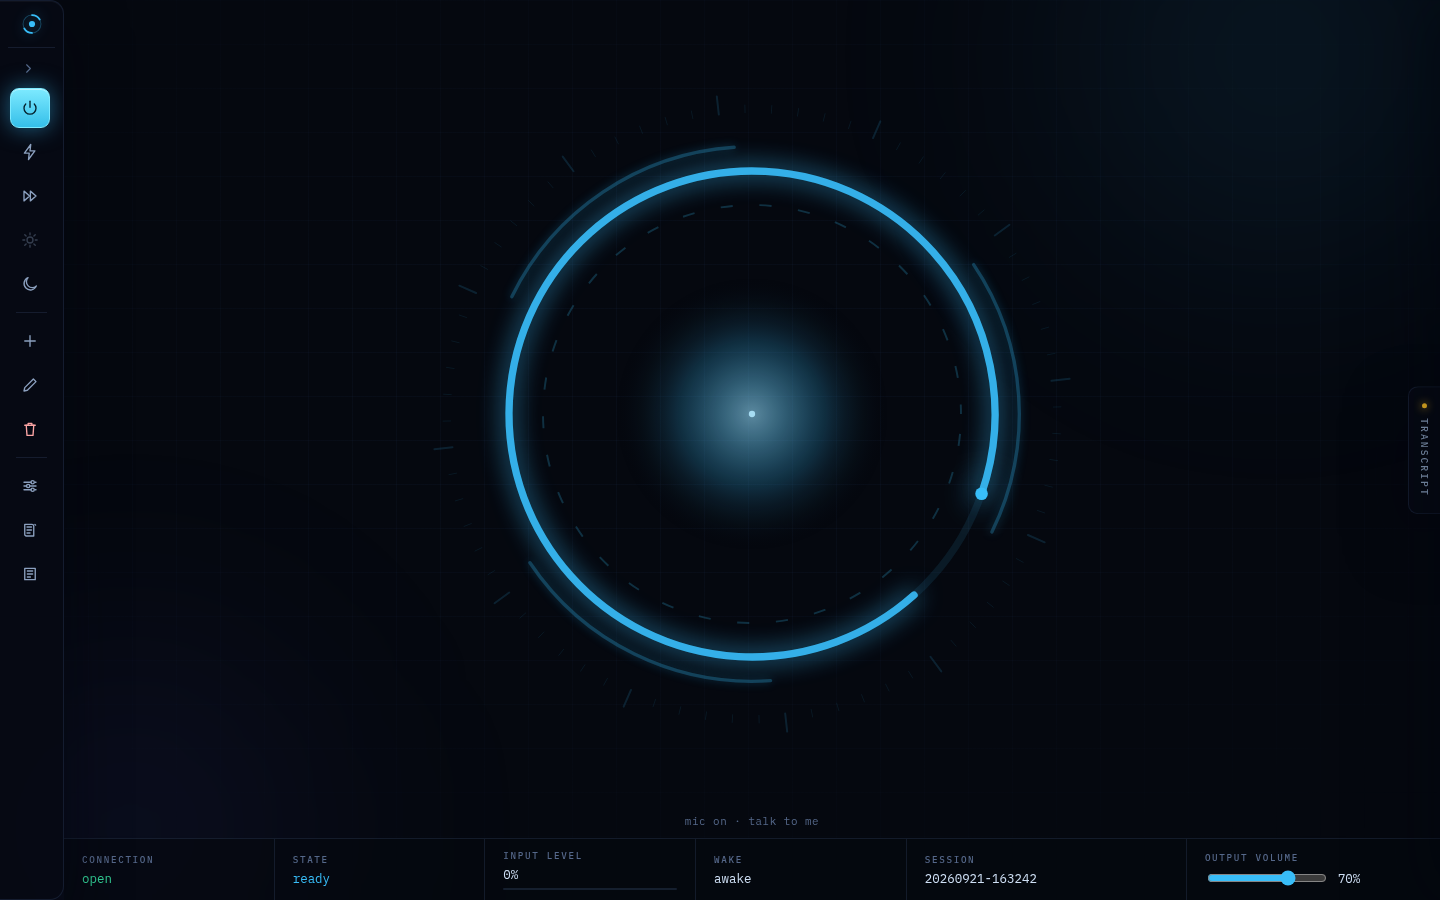
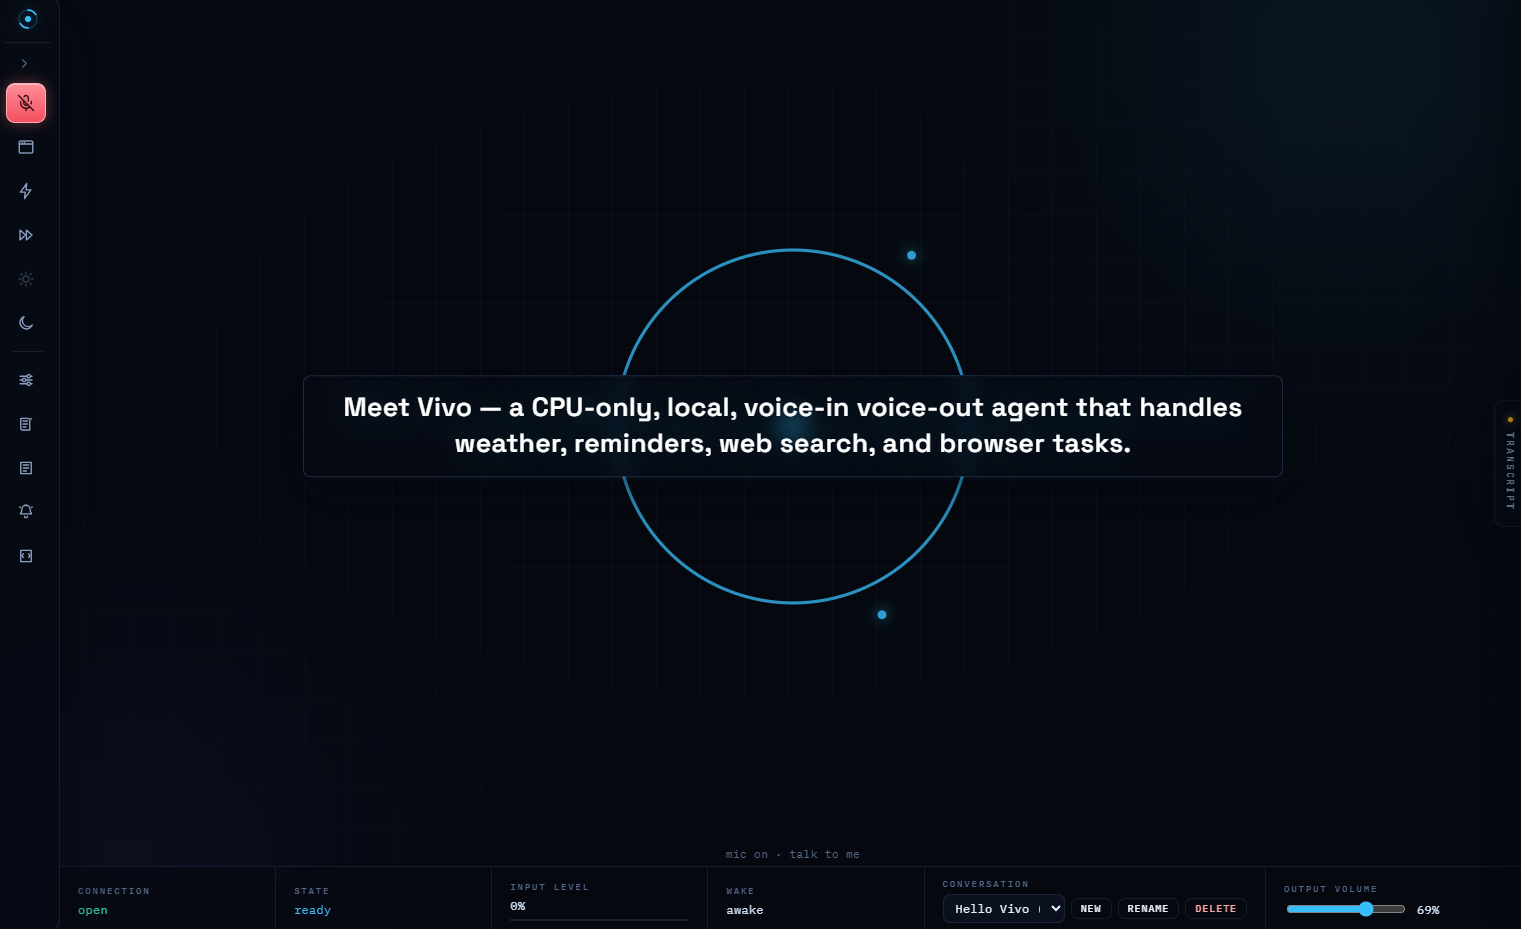
Refresh README and console screenshots

diff --git a/README.md b/README.md
@@ -2,7 +2,7 @@
 
 Vivo is a CPU-only voice assistant that runs entirely on your machine in one Docker container. It listens through the browser mic, transcribes speech, calls a local LLM, and speaks back with a cloned or default voice — no GPU, no cloud API keys, and no custom backend required.
 
-Built for local-first personal assistance: quick conversations, file and shell access inside a workspace, memory, reminders, and tools for browsing and task execution without leaving the browser.
+Built for local-first personal assistance: quick conversations, file and shell access inside a workspace, persistent memory, spoken reminders and scheduled tasks, and a live browser view for watching vivo work on the web — without leaving the browser.
 
 ![vivo console UI](banner.png)
 
@@ -12,16 +12,20 @@ A quick look at the app in action:
 
 <table>
   <tr>
-    <td><img src="images/readme/01-main-page.png" width="420" alt="Main page" /></td>
-    <td><img src="images/readme/02-response.png" width="420" alt="Assistant response" /></td>
+    <td><img src="images/readme/settings.png" width="420" alt="Settings dialog" /></td>
+    <td><img src="images/readme/skills.png" width="420" alt="Skills dialog" /></td>
   </tr>
   <tr>
-    <td><img src="images/readme/03-settings.png" width="420" alt="Settings page" /></td>
-    <td><img src="images/readme/04-skills.png" width="420" alt="Skills page" /></td>
+    <td><img src="images/readme/memory.png" width="420" alt="Memory dialog" /></td>
+    <td><img src="images/readme/tasks.png" width="420" alt="Reminders and scheduled tasks" /></td>
   </tr>
   <tr>
-    <td><img src="images/readme/05-memory.png" width="420" alt="Memory page" /></td>
-    <td><img src="images/readme/06-transcript.png" width="420" alt="Transcript open" /></td>
+    <td><img src="images/readme/browser.png" width="420" alt="Live browser view" /></td>
+    <td><img src="images/readme/logs.png" width="420" alt="System log" /></td>
+  </tr>
+  <tr>
+    <td><img src="images/readme/transcript.png" width="420" alt="Transcript panel" /></td>
+    <td><img src="images/readme/dream.png" width="420" alt="Memory dreams" /></td>
   </tr>
 </table>
 
@@ -33,9 +37,13 @@ A quick look at the app in action:
 - **Voice cloning** — upload or record a 3–30 s reference clip; vivo speaks in that voice
 - **Thinking mode** — the LLM reasons silently before answering; vivo speaks filler phrases while thinking
 - **Named sessions** — switch between conversations; each persists to disk
-- **Memory compaction** — older turns are summarised by the LLM in the background to keep context manageable
+- **Memory compaction** — older turns are summarised by the LLM in the background to keep context manageable; compactions show up as system entries in the transcript
 - **Two-tier memory** — `data/memory.md` holds curated core facts for the prompt; `data/memory.json` keeps the editable local archive
-- **21 built-in tools** — shell (sandboxed), files, memory, skills, conversations, web search, web fetch, time, weather, reminders
+- **Memory dreams** — a periodic background LLM pass reviews local memory, promotes new high-value facts, and prunes stale ones; every pass is logged and can be triggered from the UI
+- **23 built-in tools** — shell (sandboxed), files, memory, skills, conversations, web search, web fetch, time, weather, reminders and tasks, live browser view
+- **Reminders & scheduled tasks** — one-off, interval, daily, or weekly; spoken or text-only; a reminder vivo reads out, or a task vivo carries out with its tools and reports back on
+- **Live browser view** — headless Chrome (agent-browser) runs in the container; vivo opens pages, clicks, and types while you watch the streamed viewport — and can take over with your own mouse and keyboard
+- **System log** — a rolling buffer of pipeline, agent, and API events, viewable live in the UI
 - **Settings pane** — every config value is editable live from the UI; changes write `vivo.toml` automatically
 
 ## Architecture
@@ -45,13 +53,18 @@ Browser (mic + playback + UI)
    │  WebSocket (PCM 16 kHz up, PCM 48 kHz down)
    ▼
 FastAPI (uvicorn)
-    ├── VAD: Silero v6 → speech endpointing
-    ├── STT: faster-whisper small int8
-    ├── Wake: transcript-matched wake phrase
-    ├── Agent: streaming tool loop → llama.cpp v1
-    │     ├── 21 built-in tools + spoken fillers during reasoning
-    ├── Memory: named sessions, idle-time LLM compaction
-    └── TTS: LuxTTS voice cloning (48 kHz), sentence-chunked streaming
+     ├── VAD: Silero v6 → speech endpointing
+     ├── STT: faster-whisper small int8
+     ├── Wake: transcript-matched wake phrase
+     ├── Agent: streaming tool loop → llama.cpp v1
+     │     ├── 23 built-in tools + spoken fillers during reasoning
+     │     └── exec drives agent-browser (headless Chrome) for web work
+     ├── Memory: named sessions, idle-time LLM compaction, periodic dreams
+     ├── Reminders: background scheduler (once / interval / daily / weekly)
+     ├── Log: rolling event stream, broadcast to all consoles
+     └── TTS: LuxTTS voice cloning (48 kHz), sentence-chunked streaming
+
+agent-browser viewport ── /ws/browser relay ──▶ browser (live view panel)
 ```
 
 ## Prerequisites
@@ -90,7 +103,7 @@ volumes:
 docker compose up -d --build
 ```
 
-First run downloads the LuxTTS voice model (~1.2 GB) and whisper-tiny (~150 MB) into the Hugging Face cache.
+First run downloads the LuxTTS voice model (~1.2 GB) into the Hugging Face cache; the faster-whisper small model downloads on first transcription. The image also ships agent-browser and headless Chrome for the live browser view — nothing to install.
 
 **4. Open the UI**
 
@@ -101,7 +114,10 @@ Navigate to **http://localhost:8600**, click **Start**, and talk.
 | `http://localhost:8600` | Web UI |
 | `http://localhost:8600/health` | Health check (reports LLM URL and model) |
 | `ws://localhost:8600/ws` | Voice WebSocket |
+| `ws://localhost:8600/ws/browser` | Live browser viewport stream |
 | `http://localhost:8600/api/sessions` | Session management (REST) |
+| `http://localhost:8600/api/reminders` | Reminders & scheduled tasks (REST) |
+| `http://localhost:8600/api/logs` | System log (REST) |
 
 ## Configuration
 
@@ -134,6 +150,9 @@ The **voice** row is special: it lets you upload an audio file or record from th
 | `[vad]` | `threshold` | Speech detection sensitivity |
 | `[barge_in]` | `level_threshold` | Mic level to interrupt |
 | `[memory]` | `compact_after_chars` | Trigger LLM summarisation |
+| `[memory]` | `compact_after_tokens` | Token-based compaction threshold (0 = use the char threshold) |
+| `[memory]` | `dream_interval_s` | How often the memory dream pass runs |
+| `[browser]` | `max_fps` / `quality` / `max_width` / `max_height` | Live browser stream caps |
 | `[agent]` | `max_tool_rounds` | Tool calls per reply (default: 8) |
 
 ## The Agent
@@ -147,13 +166,42 @@ vivo runs a hand-rolled streaming tool loop — each utterance gets up to 8 tool
 | `read_file` / `write_file` / `list_dir` | Sandboxed to the workspace directory |
 | `read_memory` / `remember` | Read local memory or save an explicitly requested durable fact |
 | `list_skills` / `read_skill` / `save_skill` / `delete_skill` | Discover, use, create, update, or remove task-specific skills |
-| `exec` | Sandboxed shell commands (60 s default, 120 s max) |
+| `exec` | Sandboxed shell commands (60 s default, 120 s max); also how vivo drives agent-browser for web work |
 | `list_conversations` / `create_conversation` / `switch_conversation` / `rename_conversation` / `delete_conversation` | Manage saved conversations by ID |
 | `web_search` | DuckDuckGo search (≤5 results) |
 | `web_fetch` | Read a web page as markdown (Jina Reader) |
-| `set_reminder` / `list_reminders` | Schedule and query reminders |
+| `browser_view` | Open or close the live browser viewport in the UI |
+| `set_reminder` / `list_reminders` / `delete_reminder` | Create, list, and cancel reminders & scheduled tasks |
 
 The system prompt keeps the voice UX natural: summarise results clearly, never read raw output or code aloud, and announce what you are doing before a slow tool call.
+
+## Reminders & Scheduled Tasks
+
+Two kinds of item, each with a delivery mode:
+
+- **Reminder** — vivo tells you something at the set time.
+- **Task** — vivo carries the work out with its tools at the set time and reports back (e.g. a daily news briefing or a `/tmp` cleanup).
+
+Delivery is either **spoken** (said aloud and shown as text) or **text-only**. Schedules:
+
+- **once** — a single time ("at 10:00 tomorrow" or "in 20 minutes")
+- **interval** — free-running, every N minutes (1–1440)
+- **daily** — at HH:MM in your time zone
+- **weekly** — at HH:MM on the chosen weekdays
+
+A background scheduler in the container fires items whether or not a console is open. Results are delivered to the conversation the item is attached to (or the active one) and broadcast live to open tabs. Manage them by voice ("remind me…", "what's on my list?") or in the **Reminders** dialog; REST at `/api/reminders`.
+
+## Live Browser View
+
+The container ships with **agent-browser** (a headless Chrome driver). When vivo needs the web it drives it from the `exec` tool — open a page, snapshot the interactive elements, act by reference — and calls `browser_view` so you can watch.
+
+The viewport streams to a panel in the UI over a dedicated WebSocket (`/ws/browser`) as compressed frames, capped by the `[browser]` settings. Your mouse and keyboard on the panel go straight back to the page, so you can take over mid-task. Closing the panel — or the browsing task — shuts the browser down.
+
+## System Log & Memory Dreams
+
+**System log** — every pipeline, agent, and API event flows through the `vivo.*` loggers into a rolling buffer persisted to `data/log.json`. Consoles list it under **Logs** and receive new entries live; REST at `GET/DELETE /api/logs`.
+
+**Memory dreams** — on a timer (`dream_interval_s`, default hourly) a background LLM pass reviews local memory: it promotes new high-value facts into the core set and prunes stale archive facts (core facts are never pruned). Each pass — summary, additions, prunes — is recorded in `data/dreams.json` and viewable in the **Dreams** dialog, which can also run a pass now (`POST /api/dream`).
 
 ## Wake Word
 
@@ -184,20 +232,27 @@ To access from another device:
 
 ```
 app/
-  main.py             FastAPI app: health, WebSocket, static UI
+  main.py             FastAPI app: health, REST API, WebSockets, static UI
   pipeline.py         Voice pipeline + WebSocket protocol
   vad.py              Streaming Silero v6 speech detection
   stt.py              faster-whisper speech-to-text
   tts.py              LuxTTS voice cloning, per-sentence streaming
   agent.py            Streaming tool loop against llama.cpp
   conversation.py     Named sessions + memory compaction
+  memory.py           Memory store + periodic LLM "dream" passes
+  reminders.py        Reminder/task store + background scheduler
+  browser_stream.py   agent-browser viewport relay (/ws/browser)
+  logging_store.py    Rolling system log buffer + console broadcast
+  bench.py            In-process STT/TTS micro-benchmarks for the settings pane
   tools.py            Tool implementations (time, weather, files, etc.)
   shell.py            Sandboxed exec (deny patterns, truncation)
   web.py              web_search + web_fetch
+  skills.py           Disk-backed agent skills
+  wake.py             Wake-phrase session gating
   models.py           Model pre-fetch + default voice seeding
   config.py           vivo.toml + env-var loader
   config_schema.py    Settings schema, validation, write-back
-static/               Browser UI: canvas dot, mic capture, playback, settings pane
+static/               Browser UI: canvas dot, mic capture, playback, dialogs
 vivo.toml             Central configuration (editable via UI)
 voices/               Cloned voice reference clips
 tests/                Unit + integration tests
@@ -219,6 +274,7 @@ Most tests run offline; the agent and pipeline tests require a live llama.cpp se
 
 - **Stop/start**: `docker compose down` / `docker compose up -d`
 - **Reset conversation**: `DELETE /api/sessions/<id>` or `rm -r data/sessions data/sessions.json`
+- **Clear system log / dream history**: `DELETE /api/logs` / `DELETE /api/dreams` (or from the UI)
 - **Rebuild after UI changes**: `docker compose build && up -d --force-recreate` (static files are baked into the image)
 - **Logs**: `docker compose logs -f vivo`
 
@@ -227,7 +283,7 @@ Most tests run offline; the agent and pipeline tests require a live llama.cpp se
 Per utterance, the server runs: **mic PCM (16 kHz) → VAD endpointing → STT → agent → sentence chunker → TTS**.
 
 - **Up**: binary int16 mono 16 kHz frames from the browser mic
-- **Down**: JSON events (`session`, `config`, `wake`, `start`, `end`, `transcript`, `agent_text`, `tool`, `reply_done`) plus binary int16 mono 48 kHz TTS audio chunks
+- **Down**: JSON events (`session`, `config`, `wake`, `start`, `end`, `transcript`, `agent_text`, `tool`, `reply_done`, `reminder`, `compact`, `dream`, `log_entry`, `sessions_changed`) plus binary int16 mono 48 kHz TTS audio chunks
 
 First audio starts while the LLM is still generating — typically 1–4 seconds earlier than waiting for the full reply. The WebSocket also supports session switching and manual wake via JSON messages.
 
